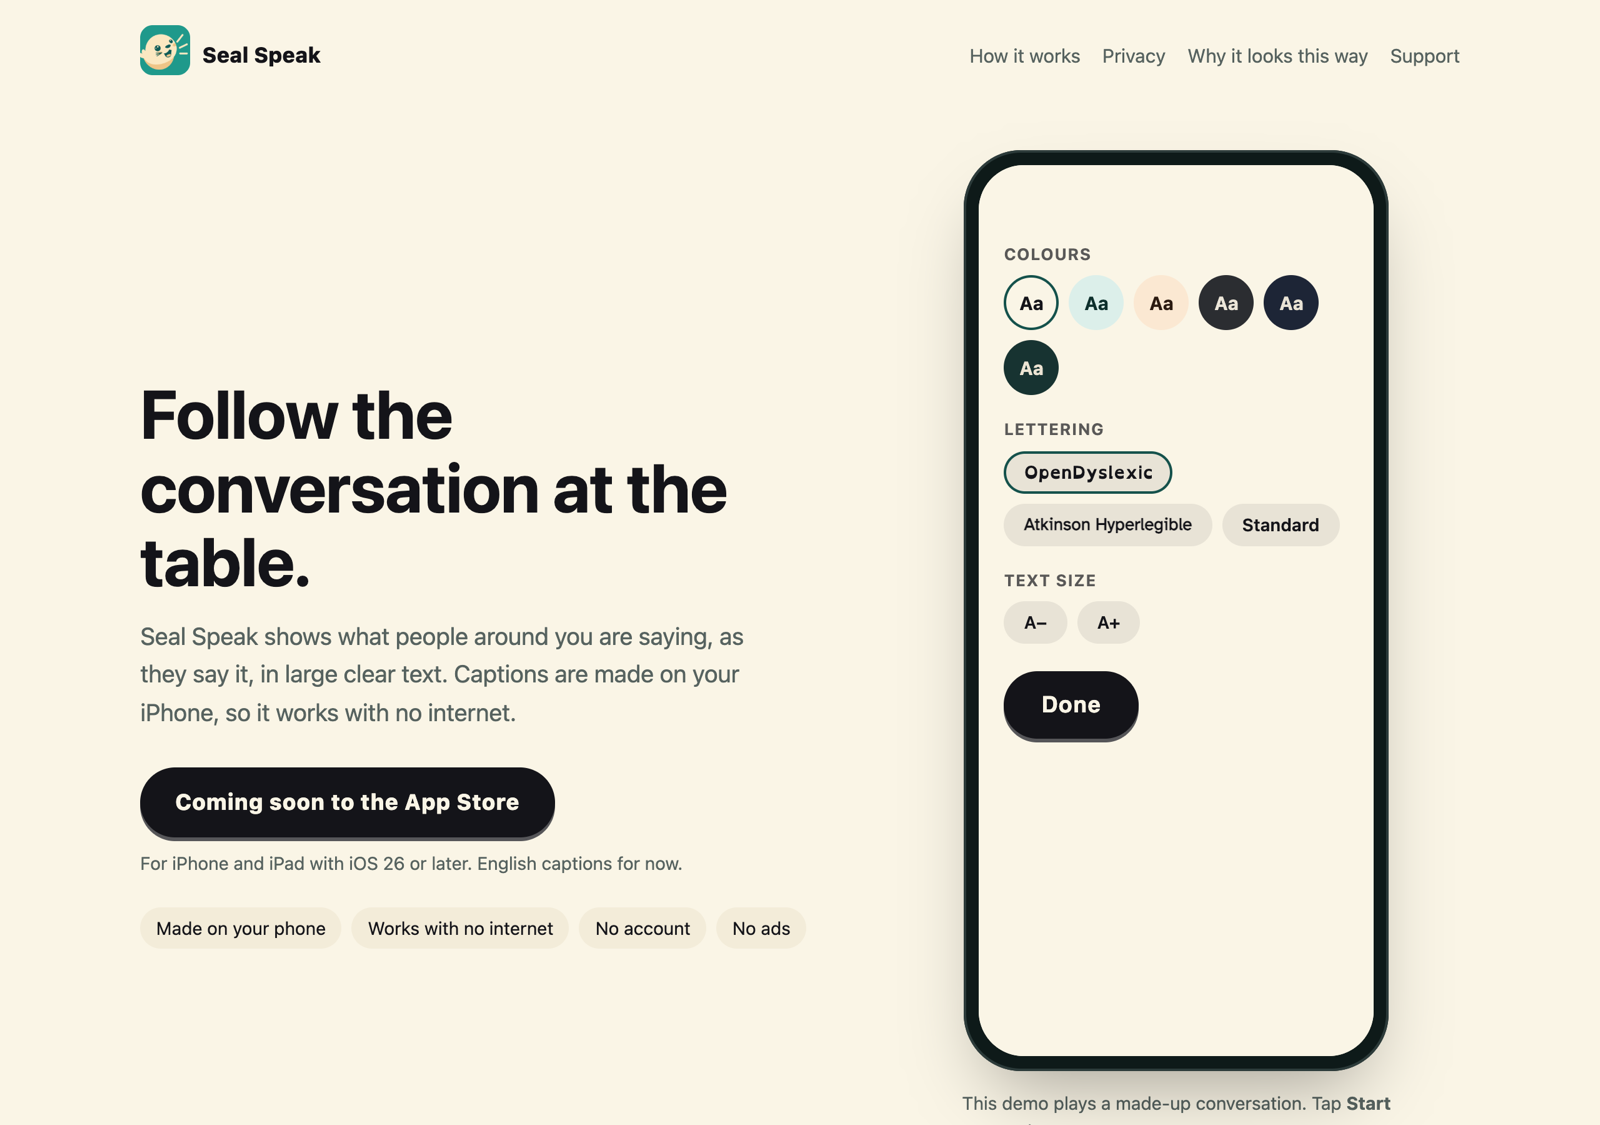
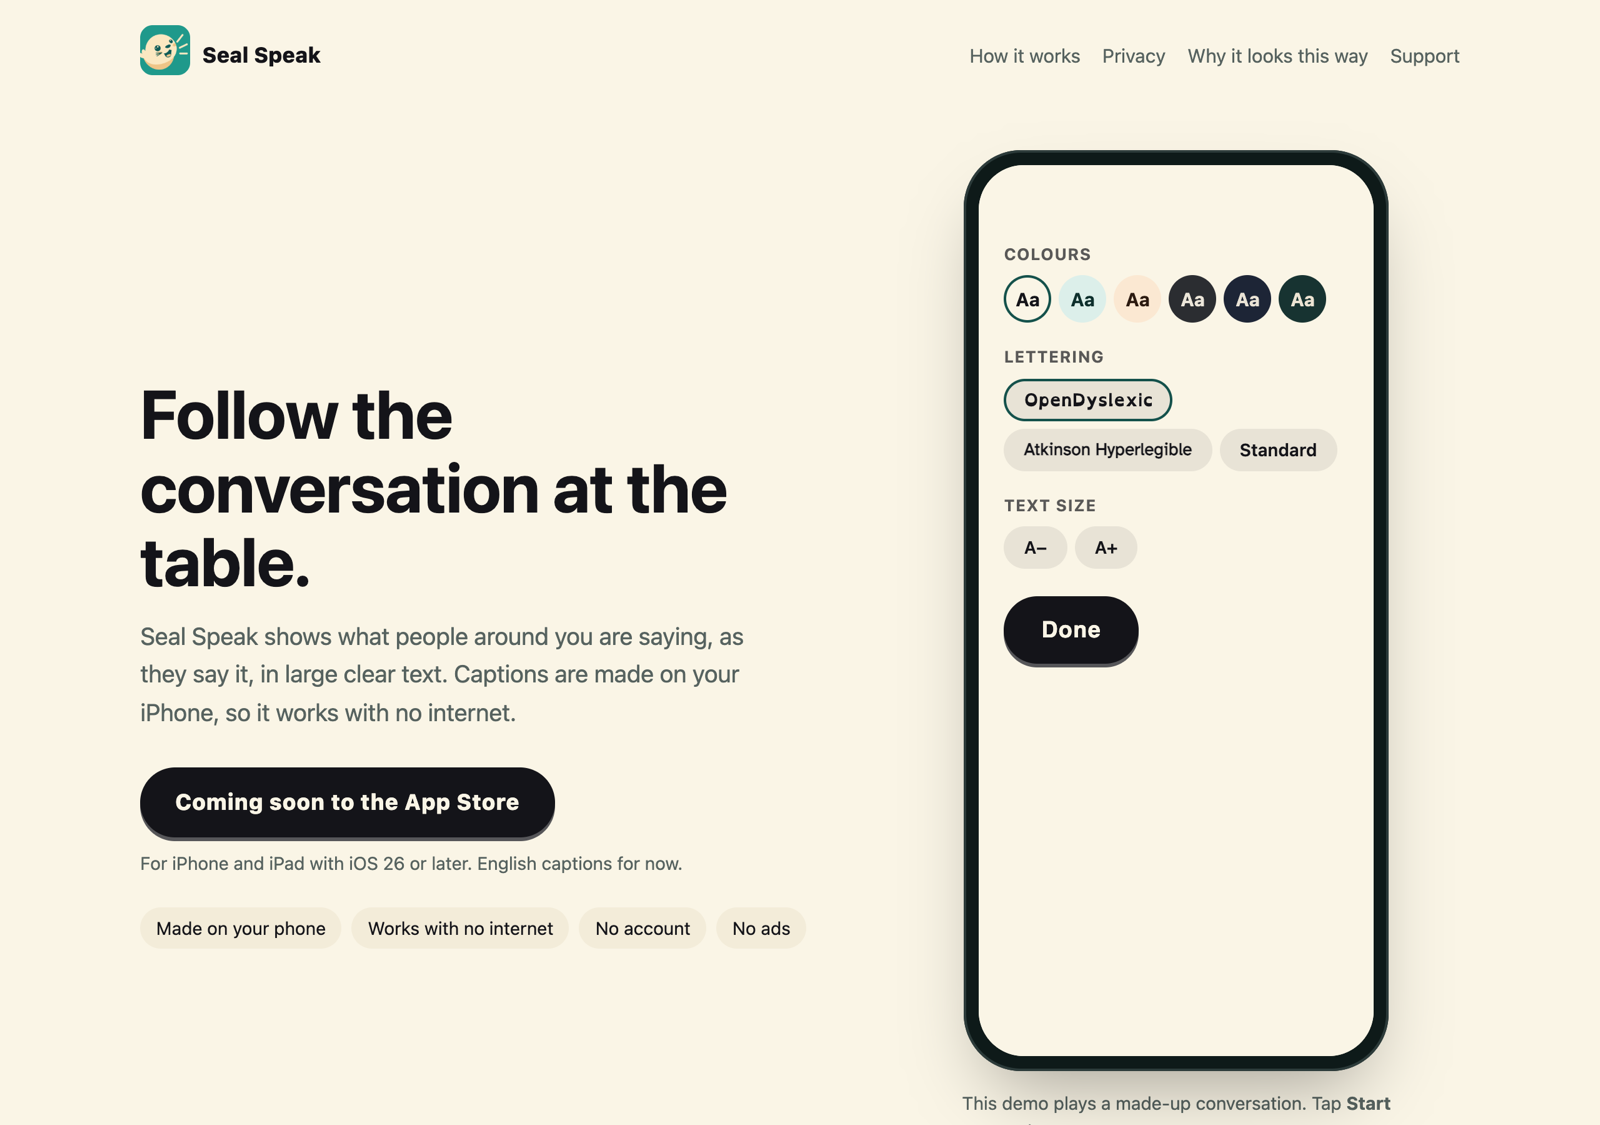
Website: six colour swatches fit on one row in the demo's Settings

Changed region(s): [[0.625, 0.2178, 0.8438, 0.6844], [0.7812, 0.4667, 0.8125, 0.4978], [0.7812, 0.3733, 0.8125, 0.4044]]

diff --git a/site/index.html b/site/index.html
@@ -100,8 +100,8 @@
   .d-retro.d-saved { color: var(--d-saved); }
   .d-settings { position: absolute; inset: 0; background: var(--d-bg); padding: 44px 20px 20px; overflow-y: auto; font: 15px/1.4 system-ui, sans-serif; }
   .d-settings h3 { font-size: 13px; text-transform: uppercase; letter-spacing: .06em; opacity: .7; margin: 18px 0 8px; }
-  .d-settings .row { display: flex; flex-wrap: wrap; gap: 8px; }
-  .swatch { width: 44px; height: 44px; border-radius: 50%; cursor: pointer; font: 700 15px/1 system-ui; border: 2px solid transparent; }
+  .d-settings .row { display: flex; flex-wrap: wrap; gap: 6px; }
+  .swatch { width: 38px; height: 38px; border-radius: 50%; cursor: pointer; font: 700 15px/1 system-ui; border: 2px solid transparent; }
   .swatch[aria-pressed="true"] { border-color: var(--d-gear); box-shadow: 0 0 0 2px var(--d-bg) inset; }
   .chip { border: 2px solid transparent; background: color-mix(in srgb, var(--d-text) 8%, transparent); color: var(--d-text); border-radius: 999px;
           padding: 8px 14px; font: 600 14px/1 system-ui; cursor: pointer; }
